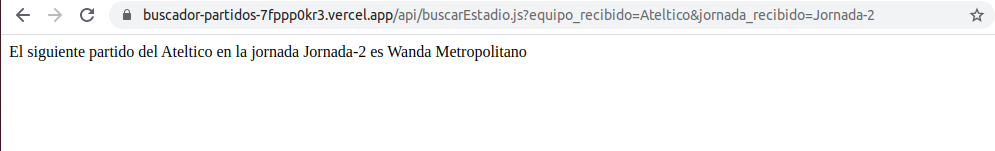
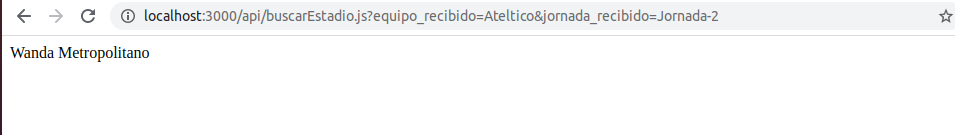
Cambios en imagenes y para que devuelva un JSON close #24

diff --git a/api/buscarEstadio.js b/api/buscarEstadio.js
@@ -20,7 +20,7 @@ module.exports = (req,res) =>{
 
     // Prueba
     if( (equipo_recibido == "Ateltico" || equipo_recibido == "Huesca" || equipo_recibido == "Cadiz" || equipo_recibido == "Villareal" || equipo_recibido == "Real Madrid" || equipo_recibido=="Barcelona" || equipo_recibido=="Granada" || equipo_recibido=="Sevilla" || equipo_recibido=="Betis") && (jornada_recibido=="Jornada-1" || jornada_recibido=="Jornada-2" ) ) {
-        var resultado = "El siguiente partido del " + equipo_recibido + " en la jornada " + jornada_recibido + " es " + jornada.getObtenerEstadioSiguientePartido(jornada_recibido,equipo_recibido)
+        var resultado =  jornada.getObtenerEstadioSiguientePartido(jornada_recibido,equipo_recibido)
     }
       
    
